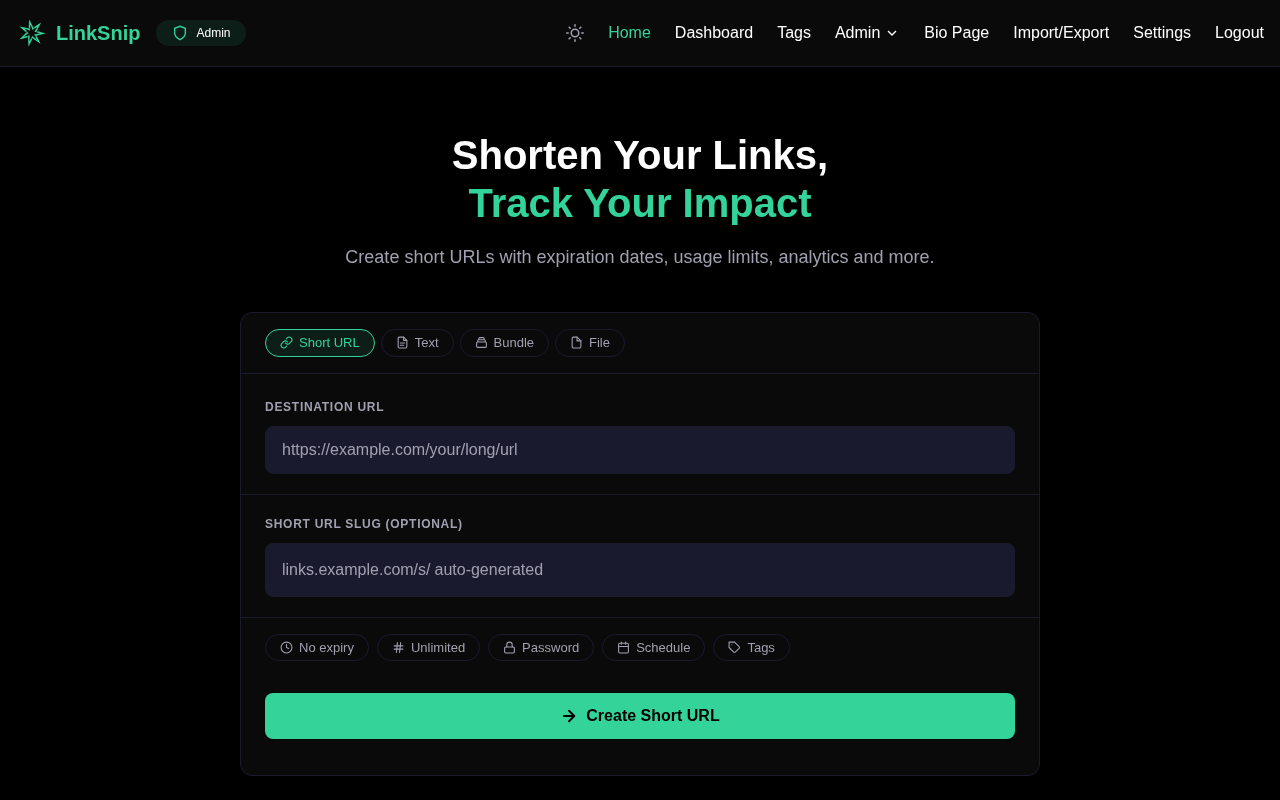
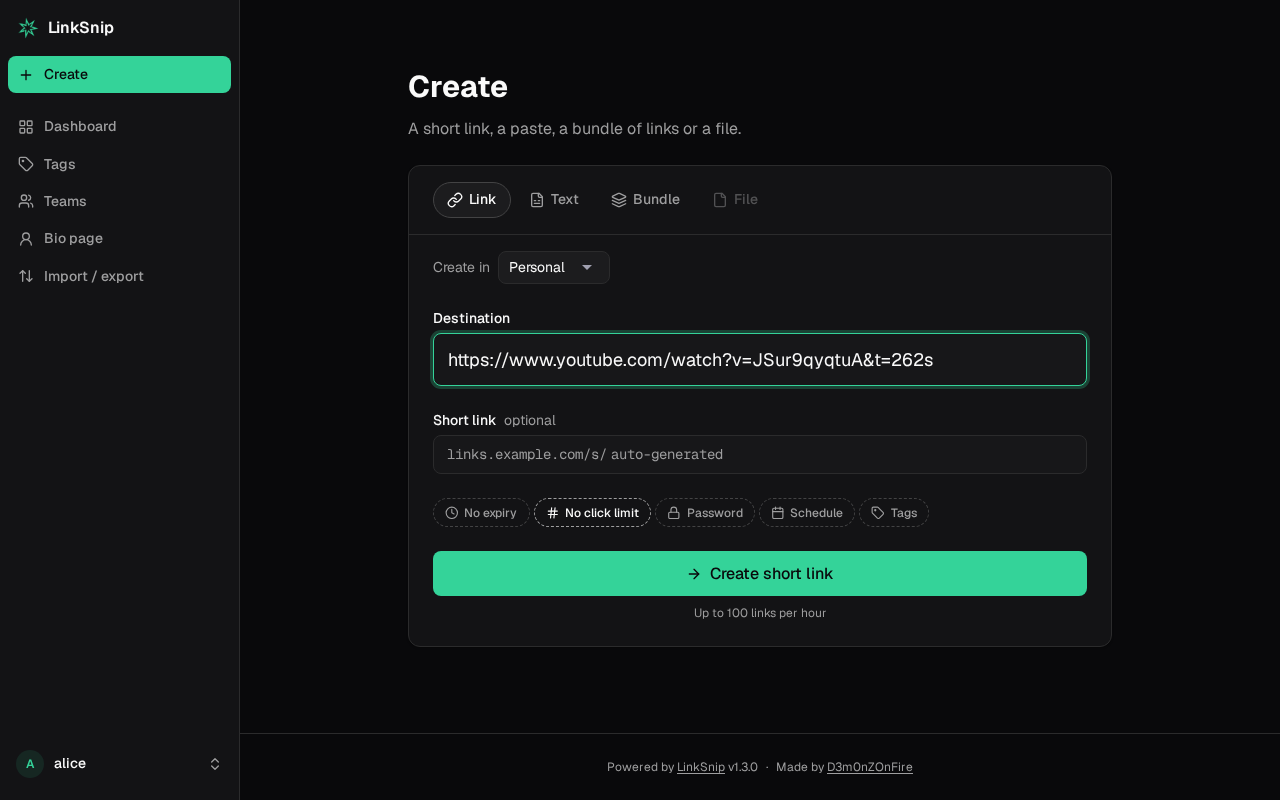
README: screenshots of the 1.3 interface (create, analytics, paste, admin overview, appearance, roles)

diff --git a/README.md b/README.md
@@ -30,10 +30,12 @@ SQLite database, and everything it stores lives in a single `data/` folder.
 
 | | |
 |---|---|
-| ![Creating a short link](docs/screenshots/home.png) | ![Analytics for a link](docs/screenshots/analytics.png) |
-| **Create** links, pastes, bundles and files | **Analytics** per link, shareable read-only |
-| ![A text paste](docs/screenshots/paste.png) | ![Roles in Admin → Settings](docs/screenshots/roles.png) |
-| **Pastes** with line numbers, raw view and editor | **Roles**: permissions and limits per kind of account |
+| ![The create page](docs/screenshots/home.png) | ![Analytics for a link](docs/screenshots/analytics.png) |
+| **Create** links, pastes, bundles and files | **Analytics** per item, shareable read-only |
+| ![A text paste](docs/screenshots/paste.png) | ![Admin overview](docs/screenshots/admin.png) |
+| **Pastes** with line numbers, raw view and editor | **Admin mode** with an overview of the whole instance |
+| ![Palettes in Admin → Appearance](docs/screenshots/appearance.png) | ![Roles in Admin → Settings](docs/screenshots/roles.png) |
+| **Your own look**: name, logo and a dark and a light palette | **Roles**: permissions and limits per kind of account |
 
 ## Quick start (Docker)
 
